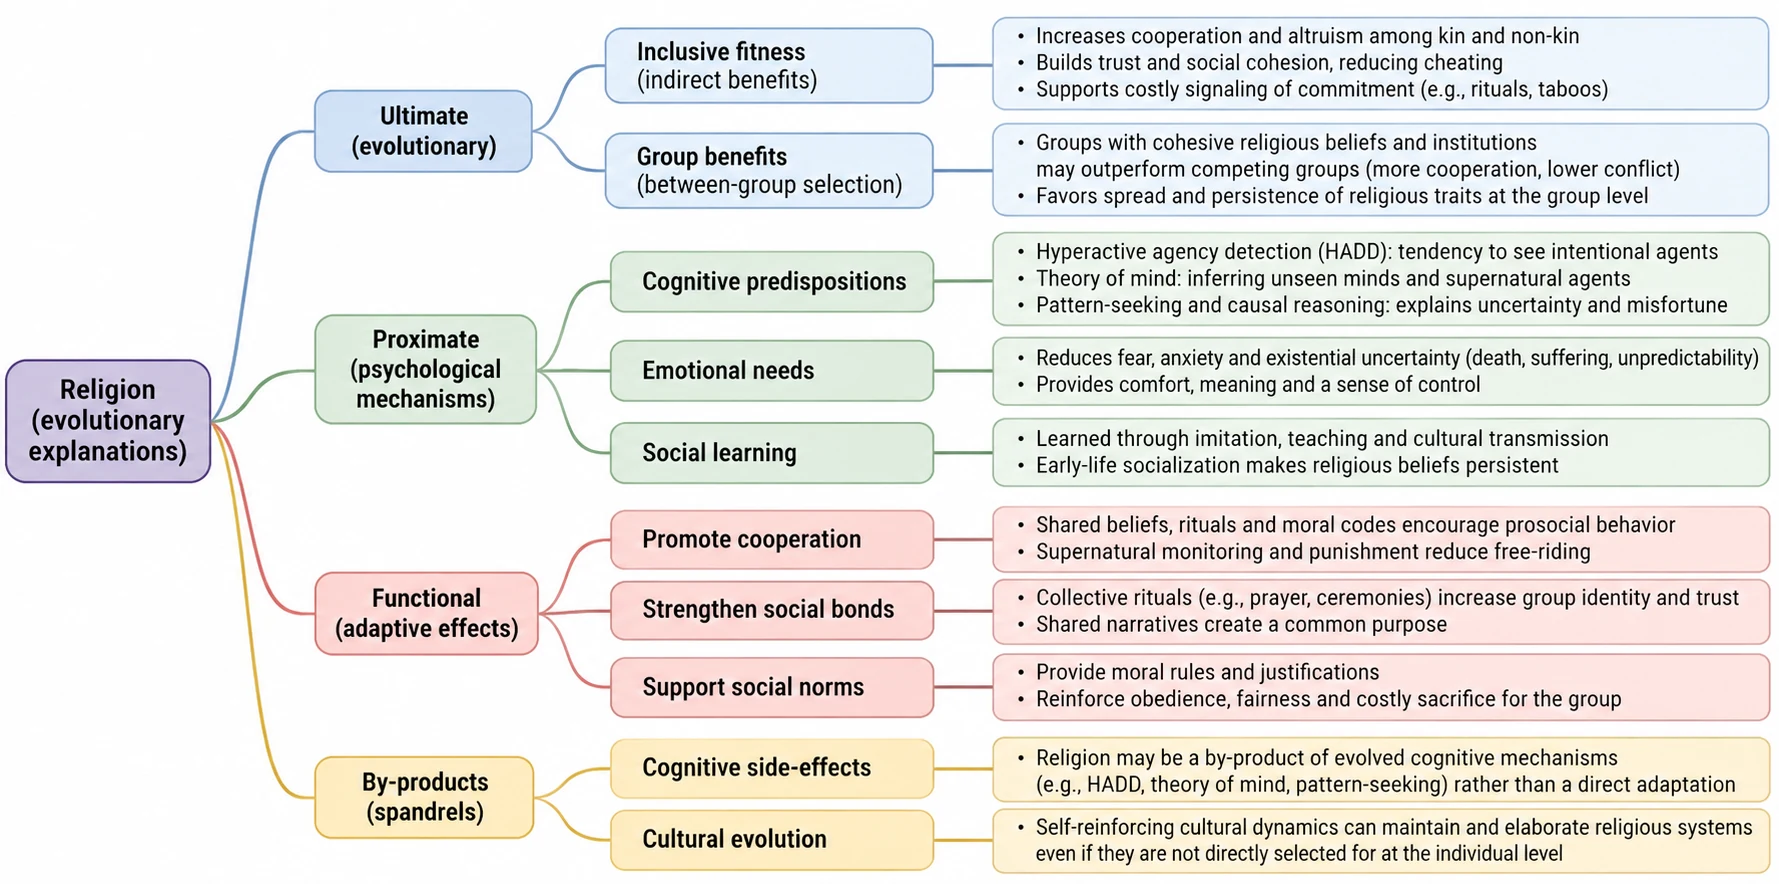
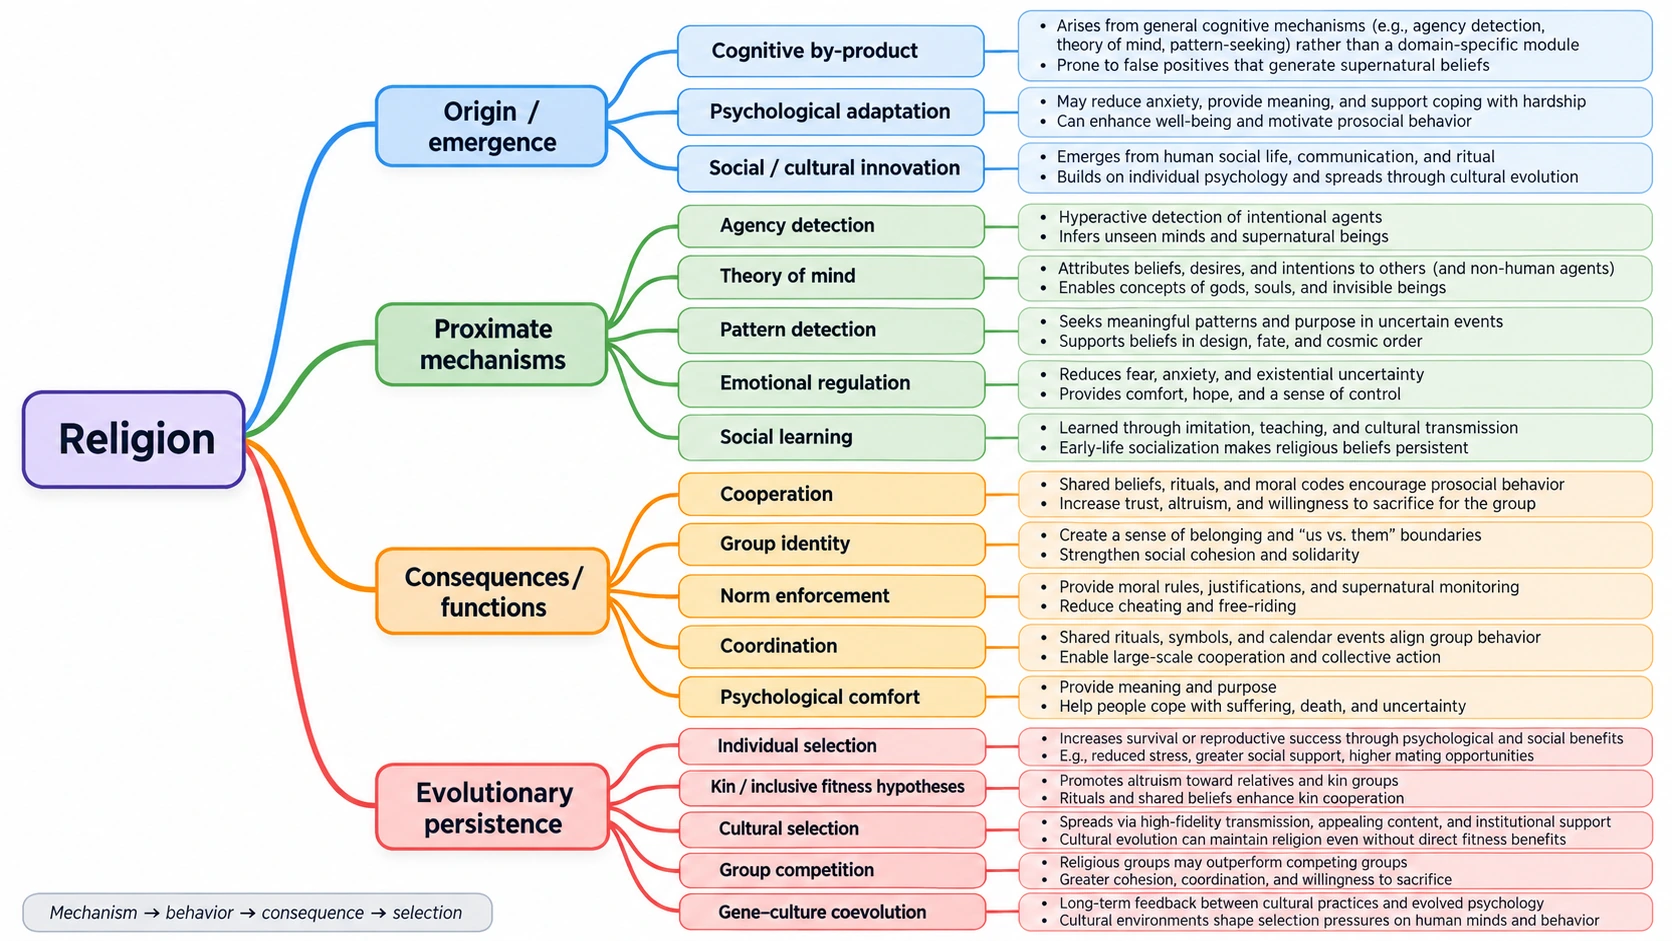
Use revised four-layer religion mind map

diff --git a/docs/learning-selection-interaction/interaction-evolved-learned-cooperation/evolutionary-explanations-of-religion.md b/docs/learning-selection-interaction/interaction-evolved-learned-cooperation/evolutionary-explanations-of-religion.md
@@ -13,7 +13,7 @@ Religion can be examined at several levels without assuming that every belief or
 
   <img
     src="/img/learning-selection-interaction/interaction-evolved-learned-cooperation/religion-evolutionary-explanations.webp"
-    alt="Colored mind map of evolutionary explanations of religion, with ultimate, proximate, functional, and by-product branches"
+    alt="Colored mind map of religion with origin, proximate mechanisms, consequences, and evolutionary persistence branches"
     style={{ display: 'block', width: '100%', height: 'auto' }}
   />
 
